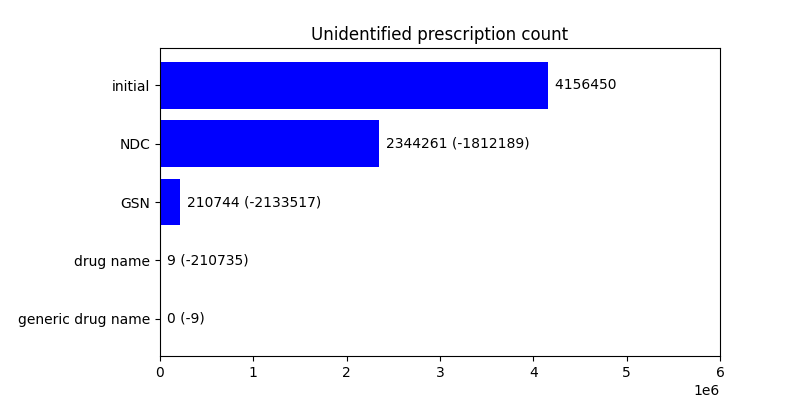
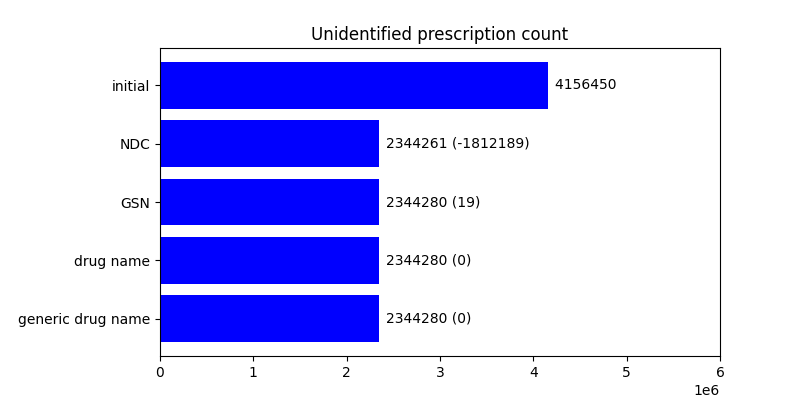
Added classification performance plots

Changed region(s): [[0.1875, 0.45, 0.5938, 0.87]]

diff --git a/curation/prescriptions/generate_df_prescriptions.py b/curation/prescriptions/generate_df_prescriptions.py
@@ -4,6 +4,7 @@ import sqlalchemy
 from curation.constants import ColumnKey
 from curation.plot_count_history import plot_count_history
 from .lookup import generate_ndc_lookup, generate_gsn_lookup, generate_name_lookup, generate_class_lookup
+from .plot_classification_performance import plot_classification_performance
 from .query_prescriptions import query_prescriptions
 
 
@@ -25,7 +26,7 @@ def generate_df_prescriptions(engine: sqlalchemy.Engine) -> pd.DataFrame:
 
     # Looking up GSNs and merging found RxCUIs in.
     df_gsn_lookup = generate_gsn_lookup(s_gsn=df_prescriptions['gsn'])
-    df_prescriptions = pd.merge(left=df_prescriptions, right=df_gsn_lookup, how='inner', on=['gsn', 'rxcui'])
+    df_prescriptions = pd.merge(left=df_prescriptions, right=df_gsn_lookup, how='outer', on=['gsn', 'rxcui'])
 
     # Counting unidentified prescriptions after GSN lookup.
     df_unidentified_prescriptions = df_prescriptions[df_prescriptions['rxcui'].isna()]
@@ -34,7 +35,7 @@ def generate_df_prescriptions(engine: sqlalchemy.Engine) -> pd.DataFrame:
     # Looking up drug names and merging found RxCUIs in.
     df_name_lookup = generate_name_lookup(df_unidentified_prescriptions[ColumnKey.DRUG.value],
                                           column_key=ColumnKey.DRUG)
-    df_prescriptions = pd.merge(left=df_prescriptions, right=df_name_lookup, how='inner', on=['drug', 'rxcui'])
+    df_prescriptions = pd.merge(left=df_prescriptions, right=df_name_lookup, how='outer', on=['drug', 'rxcui'])
 
     # Counting unidentified prescriptions after drug name lookup.
     df_unidentified_prescriptions = df_prescriptions[df_prescriptions['rxcui'].isna()]
@@ -43,7 +44,7 @@ def generate_df_prescriptions(engine: sqlalchemy.Engine) -> pd.DataFrame:
     # Looking up generic drug names and merging found class names in.
     df_generic_name_lookup = generate_name_lookup(df_unidentified_prescriptions[ColumnKey.DRUG_NAME_GENERIC.value],
                                                   column_key=ColumnKey.DRUG_NAME_GENERIC)
-    df_prescriptions = pd.merge(left=df_prescriptions, right=df_generic_name_lookup, how='inner',
+    df_prescriptions = pd.merge(left=df_prescriptions, right=df_generic_name_lookup, how='outer',
                                 on=[ColumnKey.DRUG_NAME_GENERIC.value, 'rxcui'])
 
     # Counting unidentified prescriptions after drug name lookup.
@@ -61,5 +62,7 @@ def generate_df_prescriptions(engine: sqlalchemy.Engine) -> pd.DataFrame:
     # Classifying drugs using their RxCUI and merging them in.
     df_class_lookup = generate_class_lookup(df_prescriptions['rxcui'])
     df_prescriptions = pd.merge(left=df_prescriptions, right=df_class_lookup, how='left', on='rxcui')
+
+    plot_classification_performance(df_prescriptions=df_prescriptions)
 
     return df_prescriptions

diff --git a/curation/prescriptions/plot_classification_performance.py b/curation/prescriptions/plot_classification_performance.py
@@ -1,0 +1,44 @@
+import pandas as pd
+from matplotlib import pyplot as plt
+
+CLASS_TYPES = [
+    'ATC1-4',
+    'CHEM',
+    'DISEASE',
+    'DISPOS',
+    'EPC',
+    'MOA',
+    'PE',
+    'PK',
+    'SCHEDULE',
+    'STRUCT',
+    'TC',
+    'THERAP',
+    'VA'
+]
+
+
+def plot_classification_performance(df_prescriptions: pd.DataFrame):
+    len_df_prescriptions = len(df_prescriptions)
+    proportions: tuple[tuple[str, float], ...] = ()
+
+    for class_type in CLASS_TYPES:
+        id_column_key = f"rxclass_{class_type}_id"
+        proportion = round(len(df_prescriptions[id_column_key].dropna()) / len_df_prescriptions * 100, 2)
+        proportions += ((class_type, proportion),)
+
+    proportions = tuple(sorted(proportions, key=lambda x: x[1], reverse=True))
+
+    labels, values = zip(*proportions)
+    plt.figure(figsize=(10, 6))
+    bars = plt.bar(labels, values, color='blue')
+
+    plt.xlabel('class type')
+    plt.ylabel('proportion of prescription records with non-null class ids (%)')
+    plt.title('Classification performance by class type')
+
+    for bar in bars:
+        yval = bar.get_height()
+        plt.text(bar.get_x() + bar.get_width() / 2, yval + 0.5, round(yval, 2), ha='center', va='bottom')
+
+    plt.savefig("./../docs/plots/classification_performance.png")

diff --git a/curation/prescriptions/get_class_by_rxcui/get_class_by_rxcui_response.py b/curation/prescriptions/get_class_by_rxcui/get_class_by_rxcui_response.py
@@ -94,7 +94,9 @@ class RxclassDrugInfoList:
 
     @staticmethod
     def from_dict(obj: Any) -> 'RxclassDrugInfoList':
-        assert isinstance(obj, dict)
+        if not isinstance(obj, dict):
+            return RxclassDrugInfoList([])
+
         rxclass_drug_info = from_list(RxclassDrugInfo.from_dict, obj.get("rxclassDrugInfo"))
         return RxclassDrugInfoList(rxclass_drug_info)
 

diff --git a/docs/prescriptions.md b/docs/prescriptions.md
@@ -101,3 +101,12 @@ endpoint, accessed in python by the function
 
 The classification results are added to the prescription dataframe. For each class type, the class name and the class id
 are included. The class id is used to create the one-hot vectors for training.
+
+### Classification performance
+
+The proportion of prescription records with non-null class ids for each class type are plotted below.
+
+![Classification performance](plots/classification_performance.png)
+
+We can see that the `CHEM` and `ATC1-4` class types are the most performant (i.e., classify the most records in the
+prescription table).
